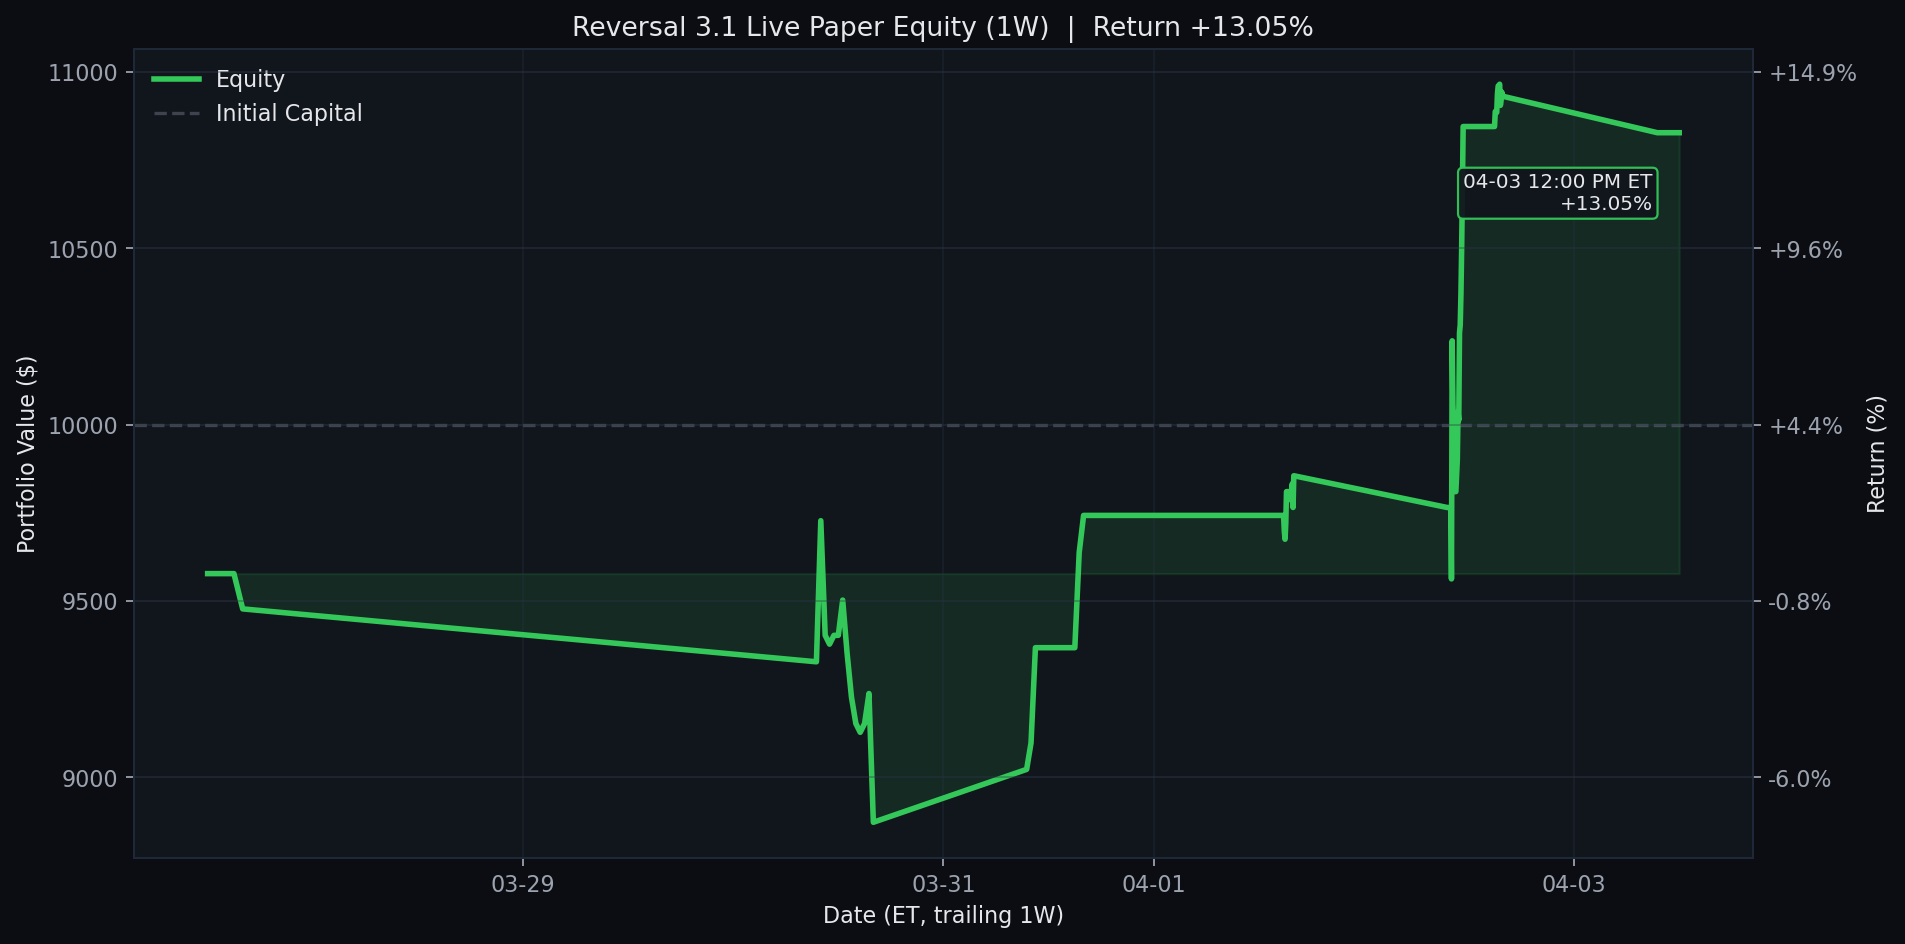
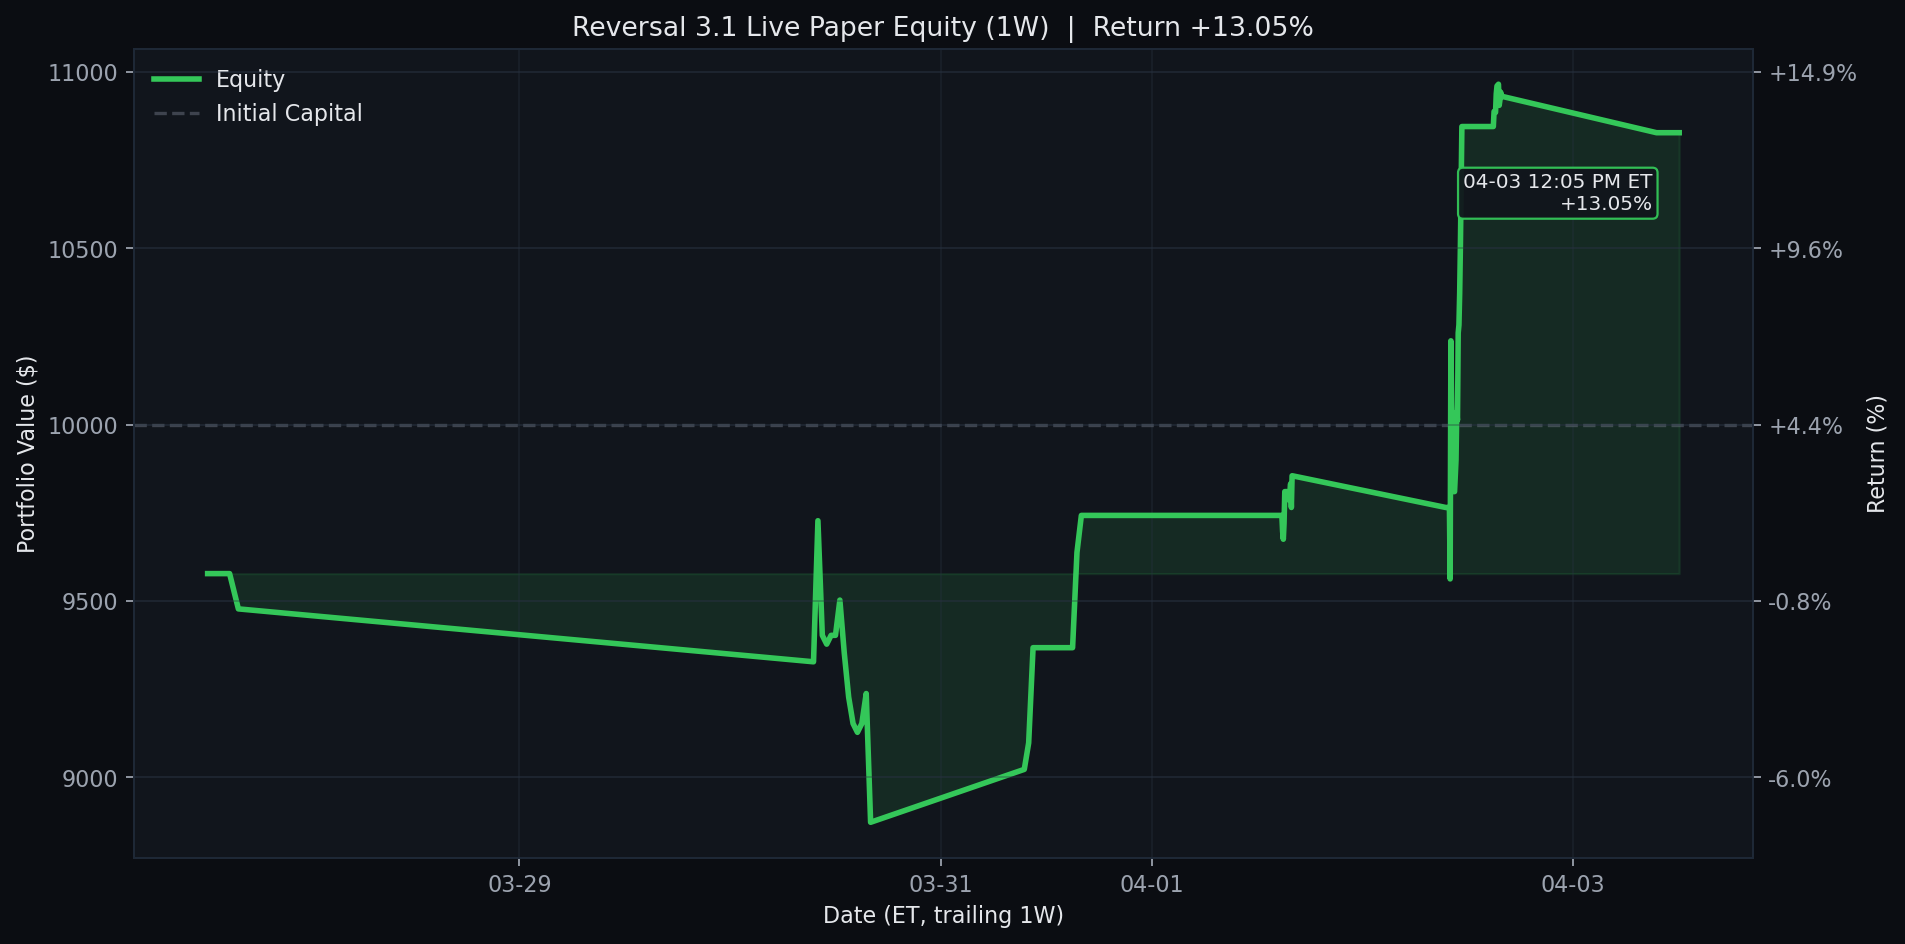
Update Reversal 3.1 live paper test 2026-04-03 12:05 ET

diff --git a/results/reversal_3_1_live/README.md b/results/reversal_3_1_live/README.md
@@ -1,6 +1,6 @@
 # Reversal 3.1 Live Paper Test
 
-Last updated (ET): `2026-04-03 12:00:01 EDT`
+Last updated (ET): `2026-04-03 12:05:05 EDT`
 Last processed slot: `manage_1200`
 
 ## Active Configuration
@@ -58,6 +58,7 @@ ticker  success_rate_%  matched_signals  current_drop_%  target_rebound_$  targe
 
 ```text
                     timestamp_et        slot   event_type                          detail
+2026-04-03T12:05:05.892529-04:00 manage_1200 slot_skipped {"reason": "already_processed"}
 2026-04-03T12:00:01.905238-04:00 manage_1200 slot_skipped {"reason": "already_processed"}
 2026-04-03T11:55:05.888604-04:00 manage_1200 slot_skipped {"reason": "already_processed"}
 2026-04-03T11:40:00.980212-04:00 manage_1130 slot_skipped {"reason": "already_processed"}
@@ -67,7 +68,6 @@ ticker  success_rate_%  matched_signals  current_drop_%  target_rebound_$  targe
 2026-04-03T11:10:05.895954-04:00 manage_1100 slot_skipped {"reason": "already_processed"}
 2026-04-03T11:05:04.971549-04:00 manage_1100 slot_skipped {"reason": "already_processed"}
 2026-04-03T11:00:01.980341-04:00 manage_1100 slot_skipped {"reason": "already_processed"}
-2026-04-03T10:55:05.892037-04:00 manage_1100 slot_skipped {"reason": "already_processed"}
 ```
 
 ## Equity Curves

diff --git a/README.md b/README.md
@@ -3,7 +3,7 @@
 <!-- reversal-3.1-live:start -->
 ## Reversal 3.1 Live Paper Test
 
-- Last updated (ET): `2026-04-03 12:00:01 EDT`
+- Last updated (ET): `2026-04-03 12:05:05 EDT`
 - Equity: `$10,827.50` | Realized: `$845.00` | Unrealized: `$-17.50` | Open positions: `1`
 - Today closed trades: `0`
 - Current slot: `manage_1200`
